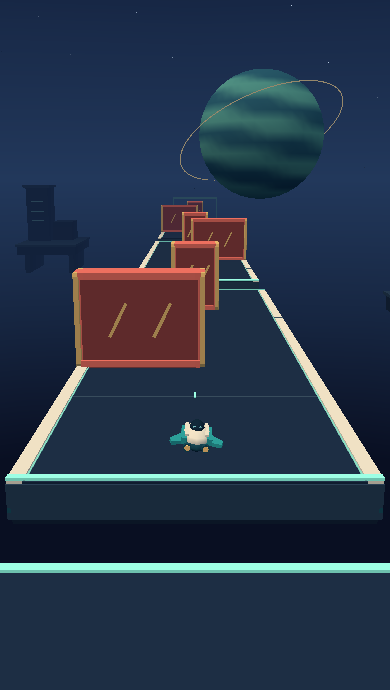
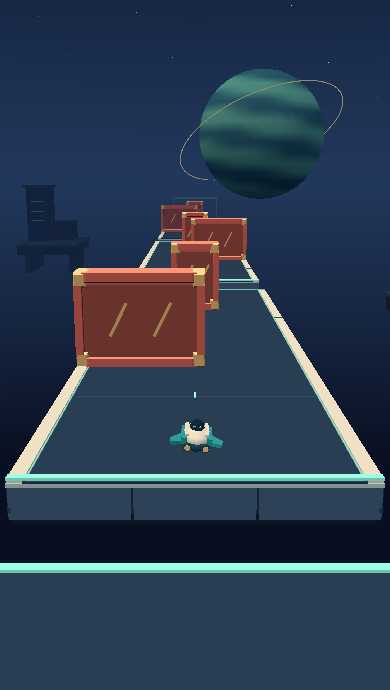
docs(orbit): capture final depth pass and limited validation scope

Changed region(s): [[0.0, 0.7, 0.9846, 0.7609], [0.1846, 0.2739, 0.6769, 0.5478], [0.4, 0.3043, 0.4308, 0.3348]]

diff --git a/docs/release/orbit-capsule/README.md b/docs/release/orbit-capsule/README.md
@@ -2,6 +2,8 @@
 
 公開 main `7adf12ab464cfbb8e9d4e04917ad9f618a1a5f4b` を起点とした独立案。アイボリーとターコイズのカプセル、閉じた赤いシャッター、暗い中央床と細い縁パネルへ整理した。PR #22 のシャッター試作は取り込んでいない。公開・main への merge は行っていない。
 
+親のレビュー後、最後の造形調整を一度だけ実施した（runtime `956d05c`）。シャッターの金色の角キャップ・0.19 の中央板の後退と、床端部の側壁・明るい薄い上端だけを変更。機体・カメラ・背景は前回案から不変。[変更範囲の照合](evidence/last-shape-pass/scope-invariants.json)。
+
 ![同一状態の実 WebGL 比較。左が公開 main、右が候補](evidence/comparison-mobile.png)
 
 [実ゲーム画面（通常の開始・左右入力、UI あり）](evidence/after-native.png) / [desktop・穴でのジャンプ](evidence/after-desktop-gap.png) / [mobile・stage 3](evidence/after-mobile-stage3.png)
@@ -11,35 +13,36 @@
 カメラ、速度、ジャンプ、当たり判定、道・穴・障害物、3 ステージ、UI、文字、音、保存形式は保持。[対象ソースの SHA-256 と不変照合](evidence/source-invariants.json)。他作品やホームのソース・素材は変更していない。共有 `render.ts` / `art.ts` の変更は Orbit 分岐の採用と不要になった Orbit 素材の読み込み削除だけ。
 
 - 機体の外寸は公開モデルと同じ X `[-0.4, 0.4]`、Y `[0.12, 0.504]`、Z `[-0.42, 0.42]`。濃いキャノピー、明るい両肩、短い後退翼、琥珀色の二つの灯を一つの不透明バッチに結合。既存の中心基準の寛容な当たり判定は変更しない。
-- 床は暗い中央、アイボリーの側縁、ミントの細線、二段の側面。少数の線でパネルを表現し、見えない小箱の裏面を増やさない。すべての部品を元の足場の前後端内に収めた。
-- シャッターは全面を塞ぐ赤い板を背面に持ち、浅い面取り、凹んだ暗赤色の中央、金色の両端、二本の斜線を配置。各部品は元の衝突幅・高さ・奥行きの内側。穴やアーチを作らない。
+- 床は暗い中央、アイボリーの側縁、ミントの細線、二段の側面。穴に面した側壁を3枚のパネルで見せ、その上に薄い明るい縁を追加。中央床の明度も少し上げた。すべての部品を元の足場の前後端内に収めた。
+- シャッターは全面を塞ぐ赤い板を背面に持ち、明るい上面と暗い側面、面取りした厚い金色の4隅、実際に 0.19 奥に下がった暗赤色の中央板、二本の斜線を配置。各部品は元の衝突幅・高さ・奥行きの内側。穴やアーチを作らない。
 - 惑星の半径 7.5、位置、リング半径 10.3 と傾きは維持。青緑の帯と控えめな金色リングへ変更。基地と岩は道を邪魔しない暗い色へ。
 
 既存の頂点色バッチ、暖色の主光、青系環境光、接地影を使用。bloom、追加パーティクル、ポスト処理、テクスチャ、新規購入素材はなし。機体・床・シャッター・基地は TypeScript の自作形状。既存の CC0 の岩・隕石だけを再利用。旧機体・床・基地 GLB（生ファイル合計 **84,808 bytes / 3 files**）のリクエスト が不要になった（リポジトリ内の旧素材は削除していない）。
 
 ## 実測
 
-同一 Chromium 151 / SwiftShader、同一カメラ・状態・描画解像度で比較。通常の本番ビルドの入力測定も同じカウントを記録する。desktop の canvas は CSS 1280×566 / buffer 889×393、mobile は 390×690 / buffer 390×690。解像度上限は変更なし。
+同一 Chromium 151 / SwiftShader、同一カメラ・状態・描画解像度で比較。今回の数値は6枚の固定状態 WebGL レンダーのカウントであり、フレーム速度の合格判定ではない。desktop の canvas は CSS 1280×566 / buffer 889×393、mobile は 390×690 / buffer 390×690。解像度上限は変更なし。
 
 | 固定状態 | 公開版 draw calls → 候補 | 公開版 triangles → 候補 |
 |---|---:|---:|
-| Stage 1・接近 | 9 → 8 | 7,724 → 5,696（−26.3%） |
-| Stage 1・穴の上 | 8 → 7 | 7,704 → 5,676 |
-| Stage 3・切り返し | 9 → 8 | 8,700 → 6,552（−24.7%） |
+| Stage 1・接近 | 9 → 8 | 7,724 → 6,766（−12.4%） |
+| Stage 1・穴の上 | 8 → 7 | 7,704 → 6,746 |
+| Stage 3・切り返し | 9 → 8 | 8,700 → 8,206（−5.7%） |
 
-[before の状態・環境・カウント](evidence/before.json) / [after](evidence/after.json)。物体ごとの draw call 増加は避け、共有ジオメトリを使用した上でレベルと機体をそれぞれ結合している。
+[before の状態・環境・カウント](evidence/before.json) / [after](evidence/after.json)。今回の追加部品も既存レベルに結合しているため、前回案から draw calls は不変。三角形は前回案より増えたが、確認した全6状態で公開版より少ない。[状態・解像度一致と描画予算の照合](evidence/last-shape-pass/render-budget.json)。[前回案の画像・数値](evidence/review-1/)も保持。
 
-本番ビルドの 3 回の交互測定（AB / BA / AB、desktop と mobile、各 1.5 秒）は [全 12 サンプル](evidence/performance-comparison.json) を保持。desktop は公開版 1 件・候補 1 件がウォームアップ後のサンプル不足で無効。mobile FPS は公開版 44.6 / 54.7 / 46.0、候補 43.9 / 52.9 / 32.2。desktop の唯一の有効な同ラウンド対は 16.1 → 17.1 FPS、p95 83.4 → 166.5 ms。ばらつきと悪化したサンプルもあり、速度改善・性能基準合格は主張しない。GPU 実行時間ではなく rAF 間隔と CPU/driver submission の計測。
+以下のフレーム速度は**前回案 `47537b4` の履歴**。今回 `956d05c` では再計測していない。本番ビルドの 3 回の交互測定（AB / BA / AB、desktop と mobile、各 1.5 秒）は [全 12 サンプル](evidence/performance-comparison.json) を保持。desktop は公開版 1 件・候補 1 件がウォームアップ後のサンプル不足で無効。mobile FPS は公開版 44.6 / 54.7 / 46.0、候補 43.9 / 52.9 / 32.2。desktop の唯一の有効な同ラウンド対は 16.1 → 17.1 FPS、p95 83.4 → 166.5 ms。ばらつきと悪化したサンプルもあり、速度改善・性能基準合格は主張しない。GPU 実行時間ではなく rAF 間隔と CPU/driver submission の計測。
 
 ## 検証と残課題
 
-- ゲーム TypeScript: pass。Astro check: 0 errors / 0 warnings（8 hints）。production build と portal guard: pass。[ログ](evidence/validation/)
-- 既存のゲームモデル 9 件 + 新規の描画境界 3 件: **12/12 pass**。新規検査は機体の旧外寸・1 バッチ、全シャッターの元の境界と塞がった面、全ステージの穴を塞がない床を確認。
+- **今回の最終コード `956d05c`**: ゲーム TypeScript、production build と portal guard は pass。[今回のログ](evidence/last-shape-pass/)。同一状態の desktop/mobile WebGL 計6枚は例外なし、描画予算内。本番ページの開始・通常左右入力によるスクリーンショット1枚も running 状態で取得。今回の検証はここまでに限定した。
+- 前回案の Astro check は 0 errors / 0 warnings（8 hints）。[前回の検証ログ](evidence/validation/)は履歴として保持。
+- 既存のゲームモデル 9 件 + 新規の描画境界 3 件: **12/12 pass**。今回更新した検査は機体の旧外寸・1 バッチ、全シャッターの元の境界・閉塞面・中央板と4隅の段差、全足場の外寸・中央の表示高さ・側壁前端、および全ステージの穴を塞がないことを確認。中央床の表示高さ `p.y−0.01` と装飾を含む上下端も前回案から不変。
 - 最初の候補の既存 Orbit ブラウザ検査: **6/9 pass**。保存互換、失敗/リトライ・フォーカス・20 回の再開始、狭幅メニュー、安全領域、ジャンプ時の読み込み、GLB 失敗時の完走・保存が通過。[全レポートとログ](evidence/initial-local/)
 - 最初の keyboard は 3 ステージを通常入力でクリアし、保存・reload・別ページ再読込・stage 3 再開始まで到達。ただし **22.40 FPS / p95 83.3 ms** で既存の **45 FPS / p95 ≤ 40 ms** 基準に失敗。touch は stage 1 で入力完走に失敗。context-loss 検査も事前の stage 1 完走に失敗したため、回復動作まで到達していない。
-- 面数削減後の最終候補 `47537b4` の同じ 9 件は **5/9 pass / 4 failed / 0 retries**。[最終レポートと全ログ](evidence/final-local/)。リトライ・20 回再開始、狭幅メニュー、安全領域、ジャンプ表示、GLB 失敗時の完走・保存は pass。keyboard は 3 ステージ、保存・reload・別ページ再読込・stage 3 再開始まで通過したが **19.66 FPS / p95 100 ms** で既存基準に失敗。touch は stage 1 の 2 個目の穴で失敗。保存互換テストも通常入力の stage 1 完走部分で失敗。context-loss テストは事前の stage 1 完走で失敗し、回復検査に未到達。
+- **前回候補** `47537b4` の同じ 9 件は **5/9 pass / 4 failed / 0 retries**。[最終レポートと全ログ](evidence/final-local/)。リトライ・20 回再開始、狭幅メニュー、安全領域、ジャンプ表示、GLB 失敗時の完走・保存は pass。keyboard は 3 ステージ、保存・reload・別ページ再読込・stage 3 再開始まで通過したが **19.66 FPS / p95 100 ms** で既存基準に失敗。touch は stage 1 の 2 個目の穴で失敗。保存互換テストも通常入力の stage 1 完走部分で失敗。context-loss テストは事前の stage 1 完走で失敗し、回復検査に未到達。
 - 同環境の公開 main の通常入力検査は **0/2 pass**。[公開版のレポートと入力記録](evidence/baseline-local/)。keyboard は 3 ステージ・保存を完了したが **16.77 FPS / p95 100 ms**、touch は stage 2 の障害物で失敗。公開版の失敗を候補の免除理由にはしていない。計測結果の原因を環境だけには断定できない。
-- 基準・入力ドライバー・タイムアウト・既存検証設定は変更していない。同じ失敗の再試行はせず、全ゲーム CI、他ブラウザ、物理端末での最終受入は未実施。[検証した runtime commit、ビルド・設定ハッシュ](evidence/review-manifest.json)。
+- 今回の依頼どおり、失敗済み9件やフレーム時間測定を再実行していない。基準・入力ドライバー・タイムアウト・既存検証設定は変更していない。**最終コードの操作・性能検証は、親側の正常に描画できる環境へ引き継ぐ。** 全ゲーム CI、他ブラウザ、物理端末での最終受入も未実施。[検証した runtime commit、ビルド・設定ハッシュ](evidence/review-manifest.json)。
 
 **[Draft PR #26](https://github.com/shou773/pocketey-portal/pull/26) のまま返却する。性能・タッチ完走と context-loss 回復の未確認は公開前の残課題。** 無関係な全ゲーム CI の反復は行っていない。
 
@@ -58,7 +61,7 @@ ORBIT_BASE_URL=http://127.0.0.1:4344 node scripts/capture-orbit-ribbon.mjs after
 ORBIT_BASE_URL=http://127.0.0.1:4344 node scripts/capture-orbit-native.mjs after
 node scripts/compare-orbit-rendering.mjs /workspace/orbit-baseline/dist dist
 npx tsx --test tests/games/model.test.ts tests/games/orbit-art.test.ts
-npx playwright test --grep 'orbit|licensed UI|failure/retry'
+# 最終の通常入力・性能検査は親環境で別途実施
 ```
 
 レビュー用モジュールは検証サーバーのメモリ内だけで生成し、公開ファイルや本番ゲームには組み込まない。既存の承認済み Chromium flags を使用し、TLS・OS・ネットワークのセキュリティ設定は変更していない。
